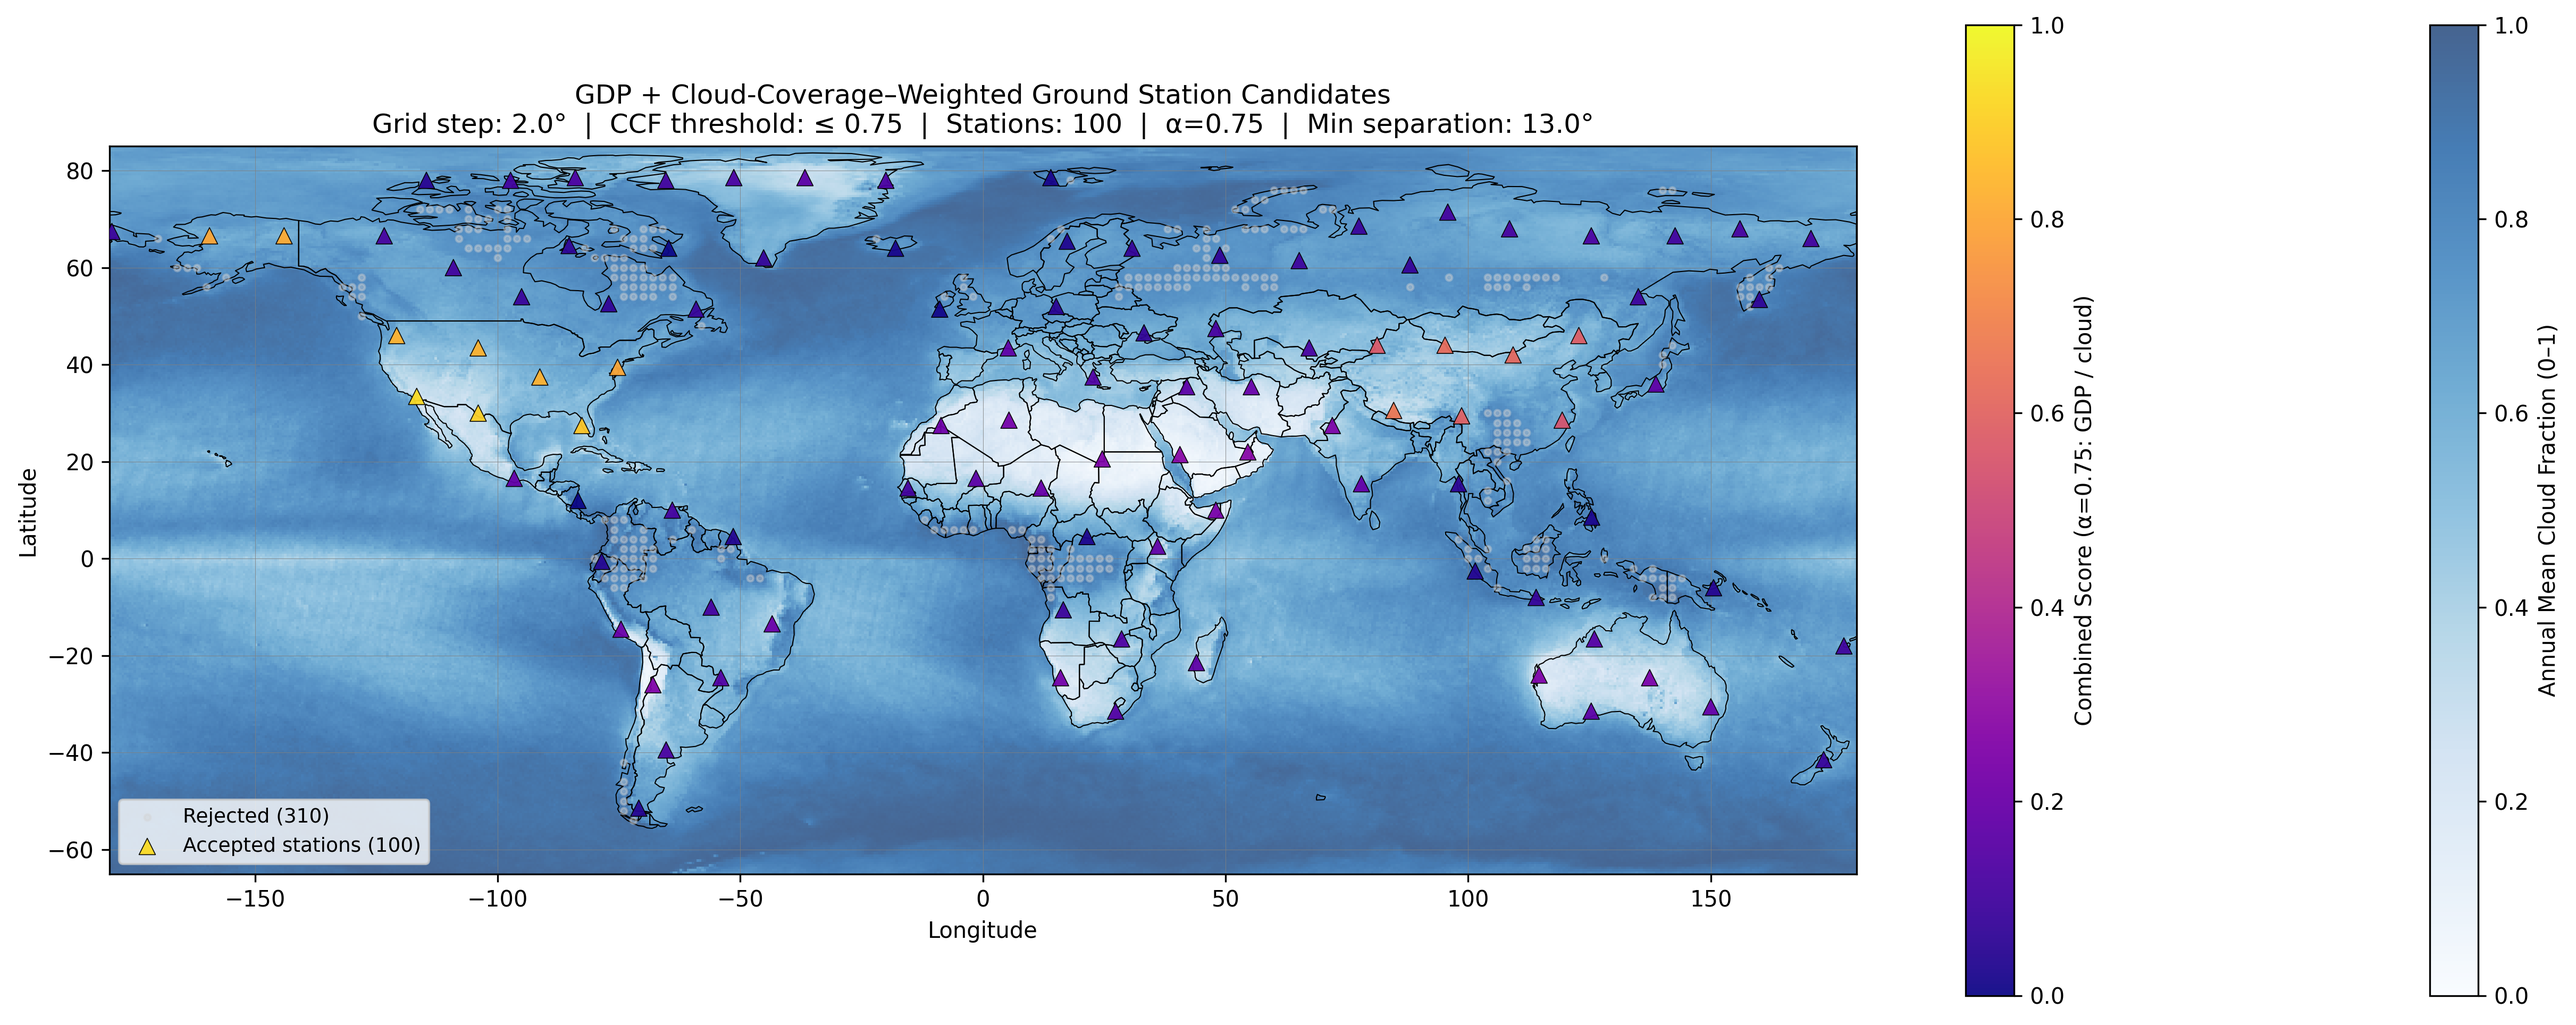
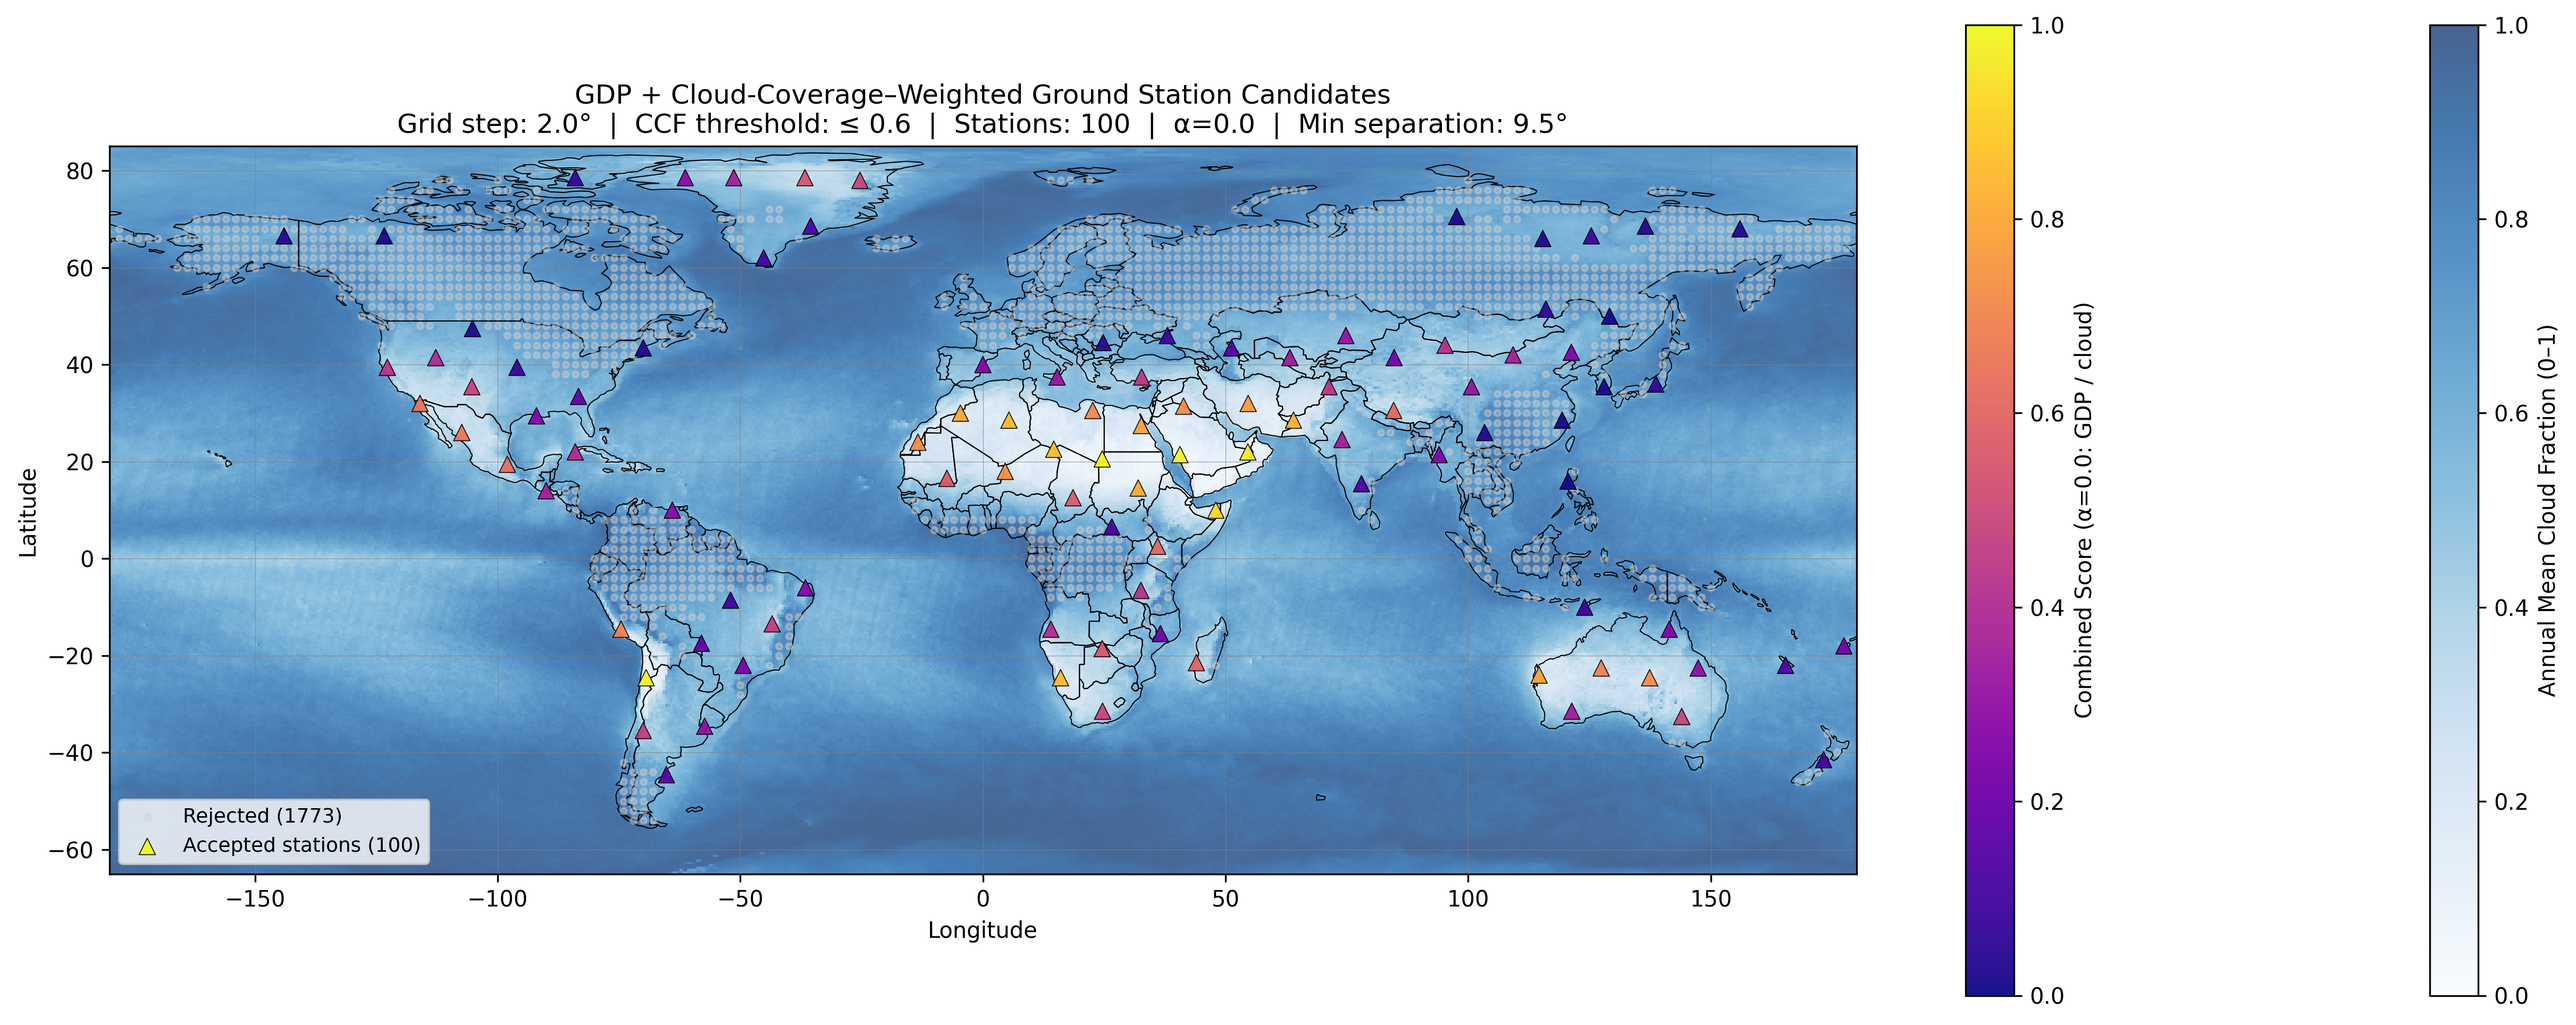
Adjustments

diff --git a/map.py b/map.py
@@ -5,7 +5,7 @@ import math
 import matplotlib.pyplot as plt
 import geopandas as gpd
 from shapely.geometry import Point
-
+# FOr every GDP location, you'll have one ground station
 # -----------------------------
 # FILES
 # -----------------------------
@@ -17,11 +17,11 @@ gdp_csv    = os.path.join(script_dir, "gdp.csv")
 # -----------------------------
 # TUNABLE PARAMETERS
 # -----------------------------
-CCF_THRESHOLD = 0.75   # max acceptable cloud fraction
+CCF_THRESHOLD = 0.60   # max acceptable cloud fraction
 GRID_STEP     = 2.0    # degrees
 MAX_STATIONS  = 100    # total stations to place
 MIN_DIST_DEG  = 15.0   # starting min degrees between stations (relaxed automatically)
-ALPHA         = 0.75    # 0.0 = pure cloud score, 1.0 = pure GDP score
+ALPHA         = 0.0    # 0.0 = pure cloud score, 1.0 = pure GDP score
 
 # -----------------------------
 # LOAD CLOUD DATA
@@ -141,20 +141,37 @@ def consider_cloud_coverage(lat, lon) -> tuple[float, float, bool]:
         (lat - lat_diff, lon - lon_diff),
     ]
 
-    best_ccf = ccf
-    best_lat = lat
-    best_lon = lon
+    def score_point(lat_, lon_):
+        c = get_cloud_coverage(lat_, lon_)
+        if c is None:
+            return None
+
+        g = get_gdp_weight(lat_, lon_)
+
+        cloud_score = 1 - c  # higher = better
+        gdp_score = g        # already normalized
+
+        return ALPHA * gdp_score + (1 - ALPHA) * cloud_score
+
+    best_score = score_point(lat, lon)
+    if best_score is None:
+        return lat, lon, False
+
+    best_lat, best_lon = lat, lon
 
     for new_lat, new_lon in neighbors:
-        neighbor_ccf = get_cloud_coverage(new_lat, new_lon)
-        if neighbor_ccf is None:
+        s = score_point(new_lat, new_lon)
+        if s is None:
             continue
-        if neighbor_ccf < best_ccf:
-            best_ccf = neighbor_ccf
+
+        if s > best_score:
+            best_score = s
             best_lat = new_lat
             best_lon = new_lon
 
-    if best_ccf <= CCF_THRESHOLD:
+    # enforce cloud constraint at final position
+    final_ccf = get_cloud_coverage(best_lat, best_lon)
+    if final_ccf is not None and final_ccf <= CCF_THRESHOLD:
         return best_lat, best_lon, True
 
     return lat, lon, False
